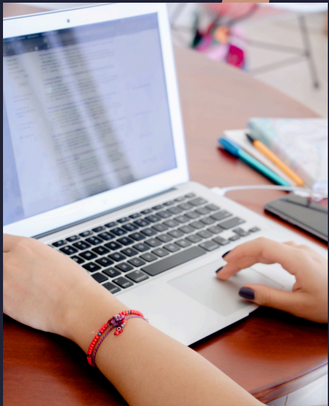
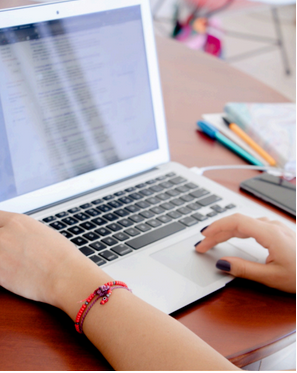
cofig5

diff --git a/index.html b/index.html
@@ -27,7 +27,7 @@
   <body>
     <header class="cabecalho">
       <a href="#">
-        <h1 class="logo">Fametro</h1>
+        <h1 class="logo">ShortCuts</h1>
       </a>
 
       <nav class="menu">
@@ -41,24 +41,6 @@
     <section class="title">
       <h1>INCLUSÃO DIGITAL</h1>
       <h2>Importância dos Atalhos</h2>
-    </section>
-    <section class="home">
-      <div class="container-foto">
-        <div class="foto sombra-interna">
-          <img src="./src/images/Pc.png" alt="Imagem de um P em chamas" />
-        </div>
-      </div>
-      <div class="informacoes">
-        <h1>Introdução</h1>
-        <p>
-          A inclusão digital é um tema de extrema relevância na sociedade
-          contemporânea, marcada pela crescente dependência da tecnologia em
-          diversos aspectos da vida cotidiana. Este conceito refere-se ao acesso
-          equitativo e à participação ativa de todos os cidadãos nas tecnologias
-          da informação e comunicação (TICs), independentemente de sua origem,
-          idade, gênero, habilidades ou condição socioeconômica.
-        </p>
-      </div>
     </section>
     <section class="home">
       <div class="informacoes">
@@ -80,7 +62,10 @@
     <section class="home">
       <div class="container-foto">
         <div class="foto sombra-interna">
-          <img src="./src/images/Pc2.png" alt="Imagem de um P em chamas" />
+          <img
+            src="./src/images/Pctogether.png"
+            alt="Imagem de um P em chamas"
+          />
         </div>
       </div>
       <div class="informacoes">
@@ -92,6 +77,30 @@
           pessoas com deficiência e limitações possam navegar de forma autônoma
           e com liberdade na web.
         </p>
+      </div>
+    </section>
+    <section class="home">
+      <div class="informacoes">
+        <h1 class="big">
+          Desenvolvimento de tecnologia acessível, inovação e empreendedorismo e
+          sua relação com a engenharia da computação
+        </h1>
+        <p>
+          A inclusão digital impulsiona a demanda por tecnologias acessíveis,
+          como interfaces de usuário intuitivas, software de reconhecimento de
+          voz e dispositivos adaptativos.
+          <br />
+          <br />
+          A inclusão digital cria um ambiente propício para a inovação e o
+          empreendedorismo, permitindo que indivíduos de diversos contextos
+          participem ativamente do desenvolvimento de novas tecnologias e
+          aplicativos.
+        </p>
+      </div>
+      <div class="container-foto">
+        <div class="foto sombra-interna">
+          <img src="./src/images/Pc.png" alt="Imagem de um P em chamas" />
+        </div>
       </div>
     </section>
     <section class="home">
@@ -110,54 +119,6 @@
             src="./src/images/PcTeclado.png"
             alt="Imagem de um P em chamas"
           />
-        </div>
-      </div>
-    </section>
-    <section class="home">
-      <div class="informacoes">
-        <h1>Inglês com Diversão: Aprendendo através dos Jogos</h1>
-        <p>
-          Incorporar jogos ao aprendizado de inglês pode ser uma estratégia
-          altamente eficaz, de acordo com um estudo da Universidade de
-          Cambridge. A pesquisa constatou que 85% dos alunos que utilizaram
-          jogos para aprimorar suas habilidades no idioma relataram melhorias
-          significativas. Essa abordagem oferece diversos benefícios, incluindo
-          imersão linguística, maior motivação para a prática, contextos
-          relevantes para o uso do inglês, feedback imediato, oportunidades de
-          interação social e o desenvolvimento de diversas habilidades
-          linguísticas.
-        </p>
-      </div>
-      <div class="container-foto">
-        <div class="foto sombra-interna">
-          <img
-            src="./src/images/jogos-na-seda-online.png"
-            alt="Imagem de um P em chamas"
-          />
-        </div>
-      </div>
-    </section>
-    <section class="home">
-      <div class="informacoes">
-        <h1>Jogo de Perguntas</h1>
-        <p>
-          Bem-vindo ao nosso jogo de perguntas! As perguntas que você enfrentará
-          serão diretamente relacionadas a este tema que acabamos de explorar.
-          Prepare-se para desafiar sua mente e competir contra amigos para ver
-          quem é o mestre das perguntas e ganha um bride!
-        </p>
-        <p>
-          Pronto para começar? Clique no link abaixo e entre na diversão:
-          <a
-            target="_blank"
-            href="https://create.kahoot.it/share/atalhos-em-ingles/5ac53538-43fa-468e-a447-349b00fedd77"
-            >Kahoot</a
-          >
-        </p>
-      </div>
-      <div>
-        <div class="qrcode">
-          <img src="./src/images/Kayoot.png" alt="Imagem de um P em chamas" />
         </div>
       </div>
     </section>
@@ -189,18 +150,6 @@
           <p>Abrir as configurações para desligar o PC</p>
         </div>
         <div class="shortcut">
-          <h2>WINDOWS+P</h2>
-          <p>Abrir a aba de projeção de tela em outros dispositivos</p>
-        </div>
-        <div class="shortcut">
-          <h2>WINDOWS+R</h2>
-          <p>Acionar o menu executar</p>
-        </div>
-        <div class="shortcut">
-          <h2>WINDOWS+C</h2>
-          <p>Abrir a Cortana(inteligência artificial)</p>
-        </div>
-        <div class="shortcut">
           <h2>CTRL+F5</h2>
           <p>Recarregar página</p>
         </div>
@@ -208,86 +157,44 @@
           <h2>ALT+TAB</h2>
           <p>Abrir o controle de menu da janela</p>
         </div>
-      </section>
       <p class="bonus">
-        Quer mais? Clique no link abaixo e aproveite o quiz de bônus:
+        Quer mais? Clique no link abaixo e aproveite o quiz:
         <a target="_blank" href="https://pedrosouza09.github.io/Quiz/"
           >Link quiz</a
         >
       </p>
     </section>
+    <section class="shortcuts grafico">
+      <h1>Inglês com Diversão: Aprendendo através dos Jogos</h1>
+      <div class="grafic">
+        <img src="./src/images/grafico.png" alt="">
+      </div>
+    </section>
+
+    <section class="home">
+      <div class="informacoes">
+        <h1>Jogo de Perguntas</h1>
+        <p>
+          Bem-vindo ao nosso jogo de perguntas! As perguntas que você enfrentará
+          serão diretamente relacionadas a este tema que acabamos de explorar.
+          Prepare-se para desafiar sua mente e competir contra amigos para ver
+          quem é o mestre das perguntas e ganha um bride!
+        </p>
+        <p>
+          Pronto para começar? Clique no link e entre na diversão:
+          <a target="_blank" href="https://kahoot.it/">Kahoot (Pin: 3802108)</a>
+        </p>
+      </div>
+      <div>
+        <div class="qrcode">
+          <img src="./src/images/Kayoot.png" alt="Imagem de um P em chamas" />
+        </div>
+      </div>
+    </section>
     <section class="projetos" id="projetos">
       <h2 class="titulo">Projetos de Jogos</h2>
       <div class="container-projetos">
         <div class="projeto ativo">
-          <a
-            href="https://pedrosouza09.github.io/Projeto_GTA_Pedro/"
-            target="_blank"
-          >
-            <img
-              src="./src/images/projeto-gta.png"
-              alt="Projeto Landing page GTA"
-            />
-            <h3>Projeto GTA</h3>
-            <div class="informacoes-projeto">
-              <p>Projeto feito usando HTML, CSS e JavaScript.</p>
-              <p>🔗 Ver no GitHub Pages</p>
-            </div>
-          </a>
-        </div>
-
-        <div class="projeto ativo">
-          <a
-            href="https://pedrosouza09.github.io/Projeto_POKEMON-LIST_Pedro/"
-            target="_blank"
-          >
-            <img
-              src="./src/images/projeto-listagem-pokemon.png"
-              alt="Projeto Landing page Pokemon List"
-            />
-            <h3>Projeto Pokemon List</h3>
-            <div class="informacoes-projeto">
-              <p>Projeto feito usando HTML, CSS e JavaScript.</p>
-              <p>🔗 Ver no GitHub Pages</p>
-            </div>
-          </a>
-        </div>
-
-        <div class="projeto ativo">
-          <a
-            href="https://pedrosouza09.github.io/Projeto_ONE_PIECE_Pedro/"
-            target="_blank"
-          >
-            <img
-              src="./src/images/projeto-one-piece.png"
-              alt="Projeto Landing page ONE PIECE"
-            />
-            <h3>Projeto One Piece</h3>
-            <div class="informacoes-projeto">
-              <p>Projeto feito usando HTML, CSS e JavaScript.</p>
-              <p>🔗 Ver no GitHub Pages</p>
-            </div>
-          </a>
-        </div>
-
-        <div class="projeto ativo">
-          <a
-            href="https://pedrosouza09.github.io/Projeto_X-MEN_Pedro/"
-            target="_blank"
-          >
-            <img
-              src="./src/images/projeto-x-men.png"
-              alt="Projeto Landing page X-Men"
-            />
-            <h3>Projeto X-Men</h3>
-            <div class="informacoes-projeto">
-              <p>Projeto feito usando HTML, CSS e JavaScript.</p>
-              <p>🔗 Ver no GitHub Pages</p>
-            </div>
-          </a>
-        </div>
-
-        <div class="projeto">
           <a
             href="https://pedrosouza09.github.io/Mario_Jump_Pedro/"
             target="_blank"
@@ -304,7 +211,7 @@
           </a>
         </div>
 
-        <div class="projeto">
+        <div class="projeto ativo">
           <a
             href="https://pedrosouza09.github.io/Memory_Game_Pedro/"
             target="_blank"
@@ -321,7 +228,7 @@
           </a>
         </div>
 
-        <div class="projeto">
+        <div class="projeto ativo">
           <a
             href="https://pedrosouza09.github.io/Mini-Game_do_Among_Us_Pedro/"
             target="_blank"
@@ -335,7 +242,7 @@
           </a>
         </div>
 
-        <div class="projeto">
+        <div class="projeto ativo">
           <a
             href="https://pedrosouza09.github.io/Jogo_da_Velha_Pedro/"
             target="_blank"
@@ -352,10 +259,6 @@
           </a>
         </div>
       </div>
-
-      <button class="btn-mostrar-projetos" title="Mostrar mais projetos">
-        Mostrar mais
-      </button>
     </section>
     <footer>
       <p>

diff --git a/src/css/style.css b/src/css/style.css
@@ -108,6 +108,31 @@ body .title h2 {
   border-radius: 50px;
 }
 
+.big {
+  font-size: 40px;
+}
+
+.grafico {
+  display: flex;
+  flex-direction: column;
+  justify-content: center;
+  align-items: center;
+}
+
+.grafico img {
+  border-radius: 10px;
+}
+
+.grafic {
+  border-radius: 10px;
+  margin-bottom: 70px;
+  padding: 10px;
+  display: flex;
+  background: linear-gradient(to right, #f37b62, #b6ac85, #67fdc0);
+  background-size: 180% 180%;
+  animation: gradient-animation 5s ease infinite;
+}
+
 .qrcode {
   border-radius: 8px;
   margin-right: 70px;
@@ -147,7 +172,7 @@ body .title h2 {
   justify-content: center;
 }
 
-.shortcuts .shortcut {
+body .shortcuts .shortcut {
   background-color: #65ffc3;
   padding: 20px 5px;
   text-align: center;
